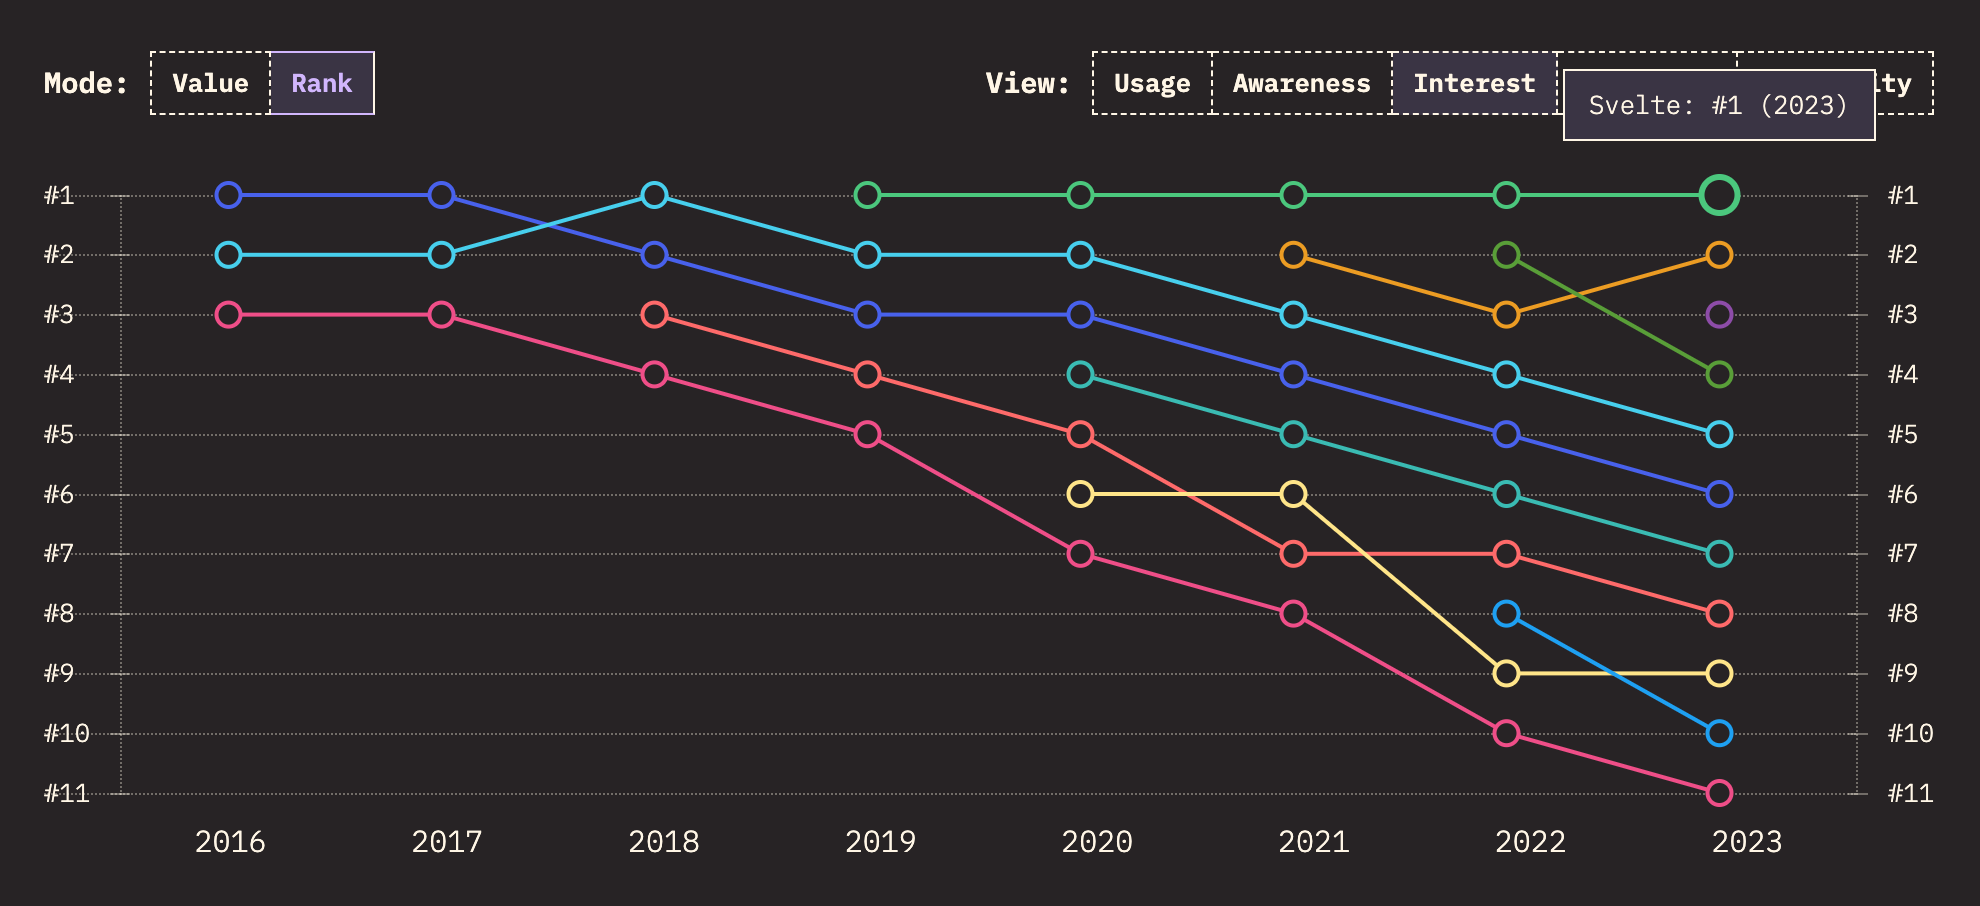
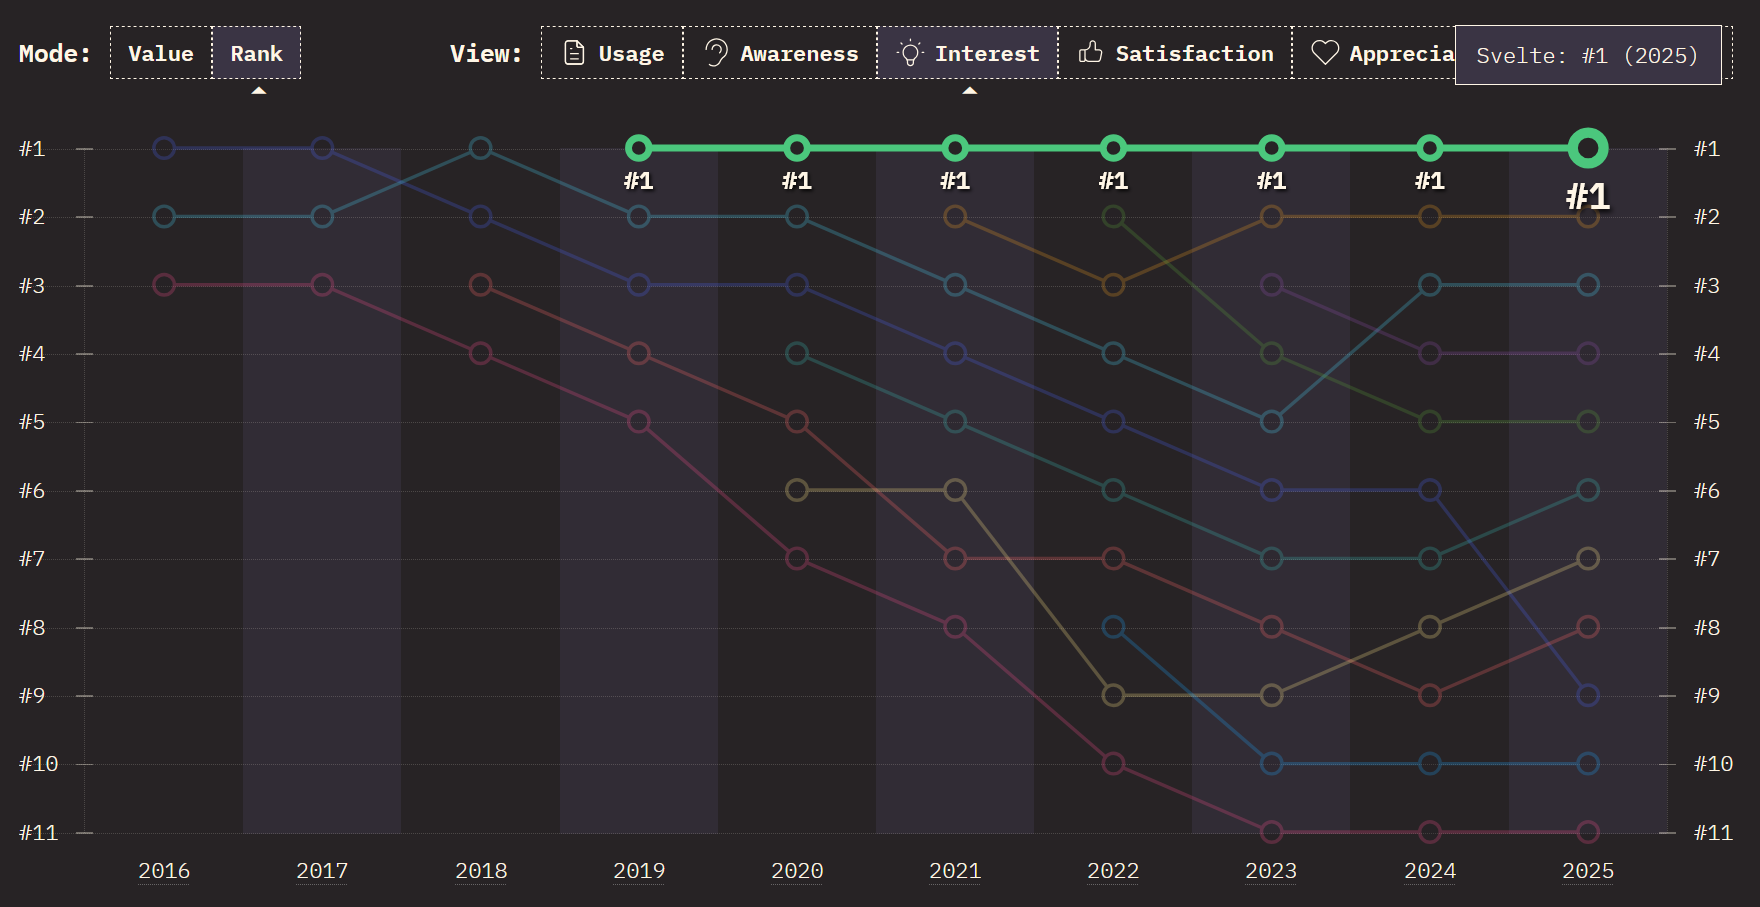
chore: bump state of js screenshot (#1784)
* chore: bump state of js screenshot

* update link

diff --git a/apps/svelte.dev/src/routes/_home/Testimonials.svelte b/apps/svelte.dev/src/routes/_home/Testimonials.svelte
@@ -34,10 +34,10 @@
 			></enhanced:img>
 		</a>
 
-		<a href="https://2024.stateofjs.com/en-US/libraries/front-end-frameworks/">
+		<a href="https://2025.stateofjs.com/en-US/libraries/front-end-frameworks/">
 			<enhanced:img
 				class="screenshot"
-				alt="State of JavaScript 2024"
+				alt="State of JavaScript 2025"
 				src="./state-of-js-chart.png?w=1000,1400"
 			></enhanced:img>
 		</a>
